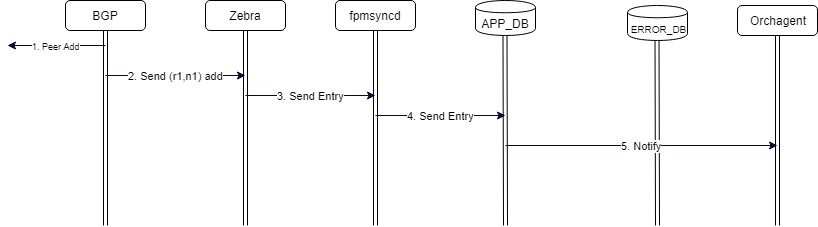
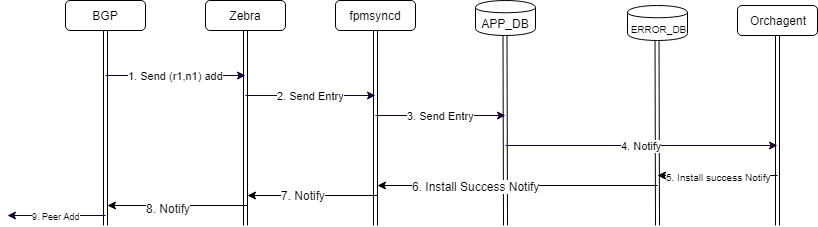
changes for supporting positive ACK with config knob support

diff --git a/L3/bgp/BGP_Route_Error_Handling_Arlo.md b/L3/bgp/BGP_Route_Error_Handling_Arlo.md
@@ -37,18 +37,18 @@ This document describes the high level design of BGP route install error handlin
 | FPM               |  Forwarding Plane Manager        |
 | SwSS              |  SONiC Switch State Service      |
 # 1 Requirement Overview
- When BGP learns a prefix, it advertises the route to its peers and sends it to the route table manager(Zebra). The routes are installed in the kernel and sent to APP_DB via fpmsyncd. 
-The Orchagent reads the route from APP_DB, creates new resources like nexthop or nexthop group Id and installs the route in ASIC_DB. The syncd triggers the appropriate SAI API and the route is installed in hardware. The CRM manages the count of critical resources allocated by orchagent through SAI API.
-Due to resource allocations failures in hardware, SAI API calls can fail and these failures should be notified to Zebra and BGP to withdraw failed routes from kernel and BGP peers.
+ When BGP learns a prefix, it sends it to route table manager(Zebra). The routes are installed in kernel and sent to APP_DB via fpmsyncd. 
+The Orchagent reads the route from APP_DB, creates new resources like nexthop or nexthop group Id and installs the route in ASIC_DB. The syncd triggers the appropriate SAI API and route is installed in hardware. The CRM manages the count of critical resources allocated by orchagent through SAI API.
+Due to resource allocations failures in hardware, SAI API calls can fail and these failures should be notified to Zebra and BGP.
+On learning the prefix, BGP can immediately advertise the prefix to its neighbors. However, if the error-handling feature is enabled, BGP waits for success notification from hardware before advertising the same to its peers. If the hardware returns error, the routes are not advertised to the peers. 
 
 ## 1.1 Functional Requirements
 
  
 
- 1. BGP should withdraw the routes from its peers which have failed to be installed in hardware.
- 1. BGP should mark the routes which are not installed in hardware as failed routes in its RIB-IN table.
+ 1. BGP should not advertise the routes which have failed to be installed in hardware.
+ 1. BGP should mark the routes which are not installed in hardware as  "FIB-install pending" routes in its RIB-IN table.
  1. Zebra should mark the routes which are not successfully installed in hardware as failed routes.
- 1. Zebra should withdraw the failed routes from the kernel.
 
 ## 1.2 Configuration and Management Requirements
 ## 1.3 Scalability Requirements
@@ -64,42 +64,35 @@ Refer to section 1.1
 
 # 3 Design
 ## 3.1 Overview
-Whenever BGP sends a route to Zebra, it appends a 16-bit opaque-id to the route message. It also stores this id in its route node. The 16-bit id consists of the top 4 bits of protocol source and remaining 12 bits of sequence number. Zebra will store the opaque-id per route per protocol source. It will also send the route to fpmsyncd for installation.
-fpmsyncd installs the opaque-id along with the route information.
-fpmsyncd subscribes to the changes in the ERROR_ROUTE_TABLE entries. Whenever the error status in ERROR_ROUTE_TABLE is updated, fpmsyncd is notified. It then sends a message to Zebra's routing table to take appropriate action.
-Zebra should extract the route destination and opaque-id from the message. It should also extract the protocol source from the opaque-id. It should look up the route and match the opaque-id with entries from various protocol sources. Based on a matching source and opaque-id, it should mark it as not installed in hardware. It should also create a route-netlink message to withdraw this state in the kernel. Also, it sends a message to the source protocol for the route (BGP). If the opaque-id is not found, the failure message is dropped at Zebra.
-BGP on receiving the message will match the opaque-id. If the opaque-id matches, it marks the route as not installed in hardware and will withdraw the route from its peer. It should mark the route in RIB-IN as not installed in hardware and remove it from the RIB-OUT list, if any. 
+On enabling the error-handling feature, fpmsyncd subscribes to the changes in the ERROR_ROUTE_TABLE entries. Whenever the error status in ERROR_ROUTE_TABLE is updated, fpmsyncd is notified. It then sends a message to Zebra's routing table to take appropriate action.
+Zebra should lookup the route and mark it as not installed in hardware. It should create a route-netlink message to withdraw this state in kernel. Also, it sends message to the source protocol for the route (BGP). 
+BGP marks the route as not installed in hardware and does not advertise the route to its peers. It should mark the route in RIB-IN as not installed in hardware and remove it from RIB-OUT list, if any. 
 For ECMP case, BGP sends route with list of nexthops to Zebra for programming. In fpmsyncd, as per the route table schema, the route is received with a list of nexthops. If the nexthop group programming fails, it is treated as route add failure in BGP.
-For ADD-PATH feature, if the route-add failure notification comes to BGP, it will not switch to route of next best rank.
-
+If the error-handling feature is disabled, fpmsyncd does not receive any notification from ERROR_ROUTE_TABLE.
 ## 3.2 DB Changes
-
 ### 3.2.1 CONFIG DB
 A new table BGP_ERROR_CFG_TABLE has been introduced in CONFIG DB (refer section 3.7).
 ### 3.2.2 APP DB
-ROUTE_TABLE  inside APP_DB is modified to add 16-bit opaque-id as a non-key attribute.
 ### 3.2.3 STATE DB
 ### 3.2.4 ASIC DB
 ### 3.2.5 COUNTER DB
 
 ## 3.3 FRRouting Design
 ### 3.3.1 Zebra changes
-Protocols communicate with Zebra using ZAPI message format. This message format will be enhanced by adding a 16-bit opaque-id. 
-Currently, Zebra communicates with fpmsyncd using netlink library which has predefined standard attributes. A new attribute can be added here to send the the opaque-id to fpmsyncd.
-Zebra, on receiving the message containing failed route notification, will match the opaque-id along with the route entry. On successful match, it will withdraw the route from kernel. It will also mark the route with flag as "Not installed in hardware" and store the route. It will not send the next best route to fpmsyncd. At this stage, route is present in Zebra. It will also notify the protocol source(BGP) of the route add failure. 
+Zebra, on receiving the message containing route install success, will notify BGP so that it can advertise the route to its peers.
+Zebra, on receiving the message containing failed route notification, will withdraw the route from kernel. It will also mark the route with flag as "Not installed in hardware" and store the route. It will not send the next best route to fpmsyncd. At this stage, route is present in Zebra. It will NOT notify BGP of the route add failure.
 
 ### 3.3.2 BGP changes
-When BGP learns a route, it immediately sends its best route to its peers without waiting for notification from the hardware. It also sends the route to Zebra along with opaque-id for installation in hardware. However, the route may or may not be successfully installed in hardware.  On receiving route add failed notification message, BGP will match the oapque-id. On successful match, it will remove the route from RIB-OUT list and place in RIB-IN with a flag marking the route as not installed in hardware. It will also withdraw the route from its peers.
-In case user wants to retry the installation of failed routes, he/she can issue the command in Zebra. The command will notify the protocol source. If the source protocol has the route with flag marked as not installed in hardware, it will remove the flag and send the route to its peers.
+When BGP learns a route, it marks the route as "pending FIB install" and sends the route to Zebra. The route may or may not be successfully installed in hardware.  On receiving route add sucess notification message, BGP will remove the "pending FIB install" flag and advertise the route to its peers. 
+
+In case user wants to retry the installation of failed routes, he/she can issue the command in Zebra. The command will reprogram the failed route in kernel and send that route to hardware.  If the route is successfully programmed in hardware, it will notify Zebra. Zebra will, in turn, notify BGP and route will be advertised to its neighbors.
 
 ## 3.4 SwSS Design
 
 ### 3.4.1 fpmsyncd changes
-fpmsyncd will program the opaque-id as part of ROUTE_TABLE entry inside APP_DB. The ERROR_DB framework will add the opaque-id as a field when they program the entry in ERROR_ROUTE_TABLE. 
 A new class is added in fpmsyncd to subscribe to ERROR_ROUTE_TABLE present inside the ERROR_DB.  Subscription to this table is sufficient to handle the errors in route installation.
 Currently, fpmsyncd has a TCP socket with Zebra listening on FPM_DEFAULT_PORT. This socket is used by Zebra to send route add/delete related messages to fpmsyncd. We will reuse the same socket to send information back to Zebra. 
-fpmsyncd will convert the ERROR_ROUTE_TABLE entry to Zebra common header format and send the message along with the opaque-id. 
-On receiving delete message from Zebra, fpmsyncd will also send a delete route message to clean the route from APP_DB so that OrchAgent can process it. If processing this results in a further error, then it silently ignores this.
+fpmsyncd will convert the ERROR_ROUTE_TABLE entry to Zebra common header format and send the message. Zebra will send a delete route message to clean the route from APP_DB so that OrchAgent can process it. If processing this results in a further error, then fpmsyncd silently ignores this.
 
 ## 3.5 SyncD
 
@@ -108,29 +101,18 @@ On receiving delete message from Zebra, fpmsyncd will also send a delete route m
 
 ## 3.7 CLI
 ### 3.7.1 Data Models
-ROUTE_TABLE  schema is modified to add 16-bit opaque-id as a non-key attribute. 
-```
-;Stores a list of routes
-;Status: Mandatory
-key           = ROUTE_TABLE:prefix
-nexthop       = *prefix, ;IP addresses separated “,” (empty indicates no gateway)
-intf          = ifindex? PORT_TABLE.key  ; zero or more separated by “,” (zero indicates no interface)
-blackhole     = BIT ; Set to 1 if this route is a blackhole (or null0)
-opaque-id     = 16-bit integer
-```
 A new table is added in CONFIG_DB to enable and disable error_handling feature.
 BGP_ERROR_CFG_TABLE
 ```
 key  					= BGP_ERROR_CFG_TABLE:config
 ```
 The above key has field-value pair as {"enable", "true"/"false"} based on configuration.
-
 ### 3.7.2 Configuration Commands
 A command is provided in SONIC to enable or disable this feature. 
 
 ```
-root@sonic:~# config bgp error_handling --help
-Usage: config bgp error_handling [OPTIONS] COMMAND [ARGS]...
+root@sonic:~# config bgp error-handling --help
+Usage: config bgp error-handling [OPTIONS] COMMAND [ARGS]...
 
   Handle BGP route install errors
 
@@ -141,13 +123,13 @@ Commands:
   disable  Administratively Disable BGP error-handling
   enable   Administratively Enable BGP error handling
   ```
-  When the error_handling is disabled, fpmsyncd will not subcribe to any notification from ERROR_ROUTE_TABLE.  By default, the error-handling feature is disabled. 
+  When the error-handling is disabled, fpmsyncd will not subcribe to any notification from ERROR_ROUTE_TABLE.  By default, the error-handling feature is disabled. 
   
 ### 3.7.3 Show Commands
 ```
 sonic(config-router-af)# do show bgp ipv4 unicast 
 BGP table version is 1, local router ID is 10.1.0.1, vrf id 0
-Status codes:  s suppressed, d damped, h history, * valid, > best, = multipath,# not installed in hardware
+Status codes:  s suppressed, d damped, h history, * valid, > best, = multipath,# FIB install pending.
                i internal, r RIB-failure, S Stale, R Removed
 Nexthop codes: @NNN nexthop's vrf id, < announce-nh-self 
 Origin codes:  i - IGP, e - EGP, ? - incomplete
@@ -158,6 +140,9 @@ Origin codes:  i - IGP, e - EGP, ? - incomplete
 Displayed  1 routes and 1 total paths  
  ``` 
   
+  
+  
+
 ```
 sonic(config-router-af)# do show ip route
 Codes: K - kernel route, C - connected, S - static, R - RIP,
@@ -192,7 +177,6 @@ B> # 30.1.1.6/32 [20/0] via 4.1.1.2, Ethernet4, 00:00:20
 B> # 30.1.1.7/32 [20/0] via 4.1.1.2, Ethernet4, 00:00:20
 B> # 30.1.1.8/32 [20/0] via 4.1.1.2, Ethernet4, 00:00:20
 ```
-
 ### 3.7.4 Debug Commands
 In order to retry the installation of failed routes from Zebra, a clear command has been provided.  
   clear {ip | ipv6} route {not-installed | <prefix/mask>}
@@ -204,8 +188,7 @@ sonic# clear ip route not-installed
   A.B.C.D/M   ipv4 prefix with mask
   X:X::X:X/M  ipv6 prefix with mask
 ```
-The above command will send route add message for the failed route from Zebra to fpmsyncd. The same message is also sent to BGP so that BGP can advertise the route.
-
+The above command will send route add message for the failed route from Zebra to fpmsyncd. 
 
 ### 3.7.5 REST API Support
 
